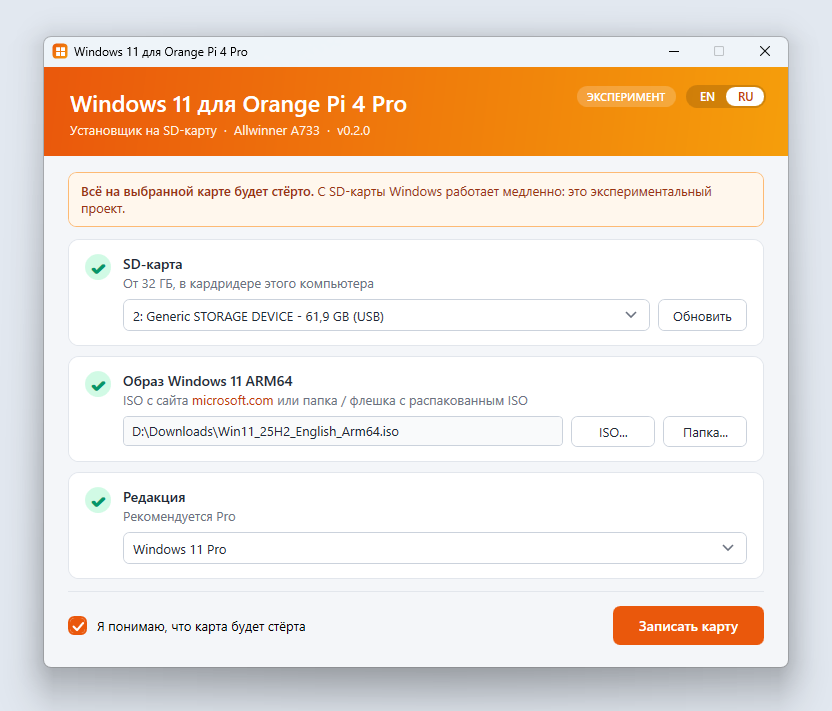
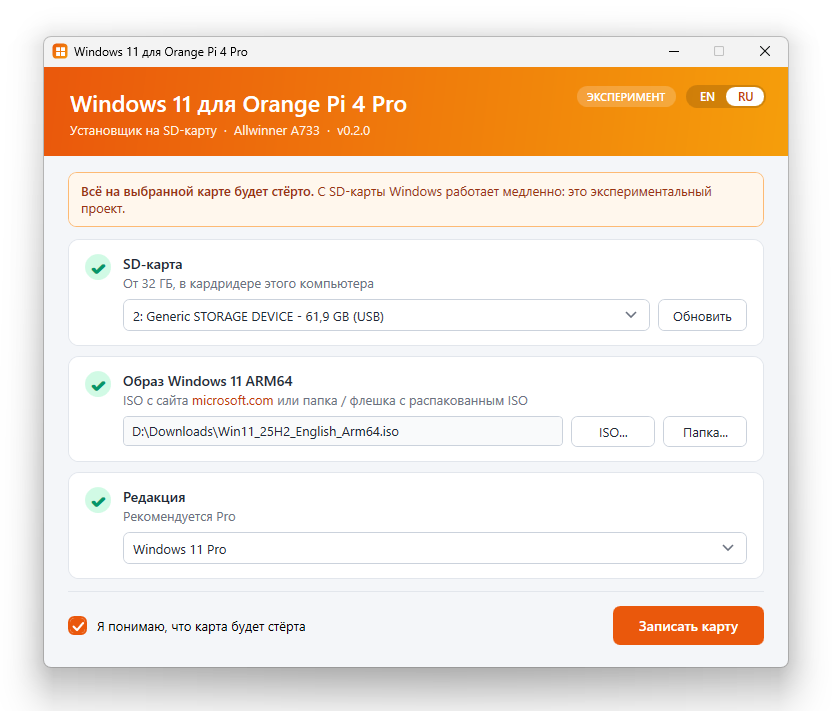
README screenshots with a transparent background (light and dark themes)
Captured on black and white and matted, so the rounded corners and the
shadow keep their transparency.

Changed region(s): [[0.0, 0.0, 1.0, 1.0]]

diff --git a/app/A733Installer/MainWindow.xaml.cs b/app/A733Installer/MainWindow.xaml.cs
@@ -389,25 +389,64 @@ namespace A733Installer
             var back = new Window
             {
                 WindowStyle = WindowStyle.None, ResizeMode = ResizeMode.NoResize, ShowInTaskbar = false, Topmost = true,
-                Background = Br("#E2E8F0"), Left = Left - pad, Top = Top - pad, Width = ActualWidth + 2 * pad, Height = ActualHeight + 2 * pad,
+                Background = Brushes.Black, Left = Left - pad, Top = Top - pad, Width = ActualWidth + 2 * pad, Height = ActualHeight + 2 * pad,
             };
             back.Show();
             Topmost = false; Topmost = true;
             Activate();
+            int x = (int)((Left - pad) * m.M11), y = (int)((Top - pad) * m.M22);
+            int w = (int)((ActualWidth + 2 * pad) * m.M11), h = (int)((ActualHeight + 2 * pad) * m.M22);
+
+            // Capture on black and on white: the difference gives each pixel's alpha, so the PNG
+            // is transparent around the window (rounded corners and shadow included) and fits any
+            // page background (GitHub light and dark themes).
+            var onBlack = Capture(x, y, w, h);
+            back.Background = Brushes.White;
+            var onWhite = Capture(x, y, w, h);
+            back.Close();
+            using (var bmp = Matte(onBlack, onWhite, w, h))
+                bmp.Save(path, System.Drawing.Imaging.ImageFormat.Png);
+            Close();
+        }
+
+        int[] Capture(int x, int y, int w, int h)
+        {
             for (int i = 0; i < 12; i++)
             {
                 Dispatcher.Invoke(DispatcherPriority.Background, new Action(() => { }));
                 Thread.Sleep(80);
             }
-            int x = (int)((Left - pad) * m.M11), y = (int)((Top - pad) * m.M22);
-            int w = (int)((ActualWidth + 2 * pad) * m.M11), h = (int)((ActualHeight + 2 * pad) * m.M22);
-            using (var bmp = new System.Drawing.Bitmap(w, h))
+            using (var bmp = new System.Drawing.Bitmap(w, h, System.Drawing.Imaging.PixelFormat.Format32bppArgb))
             {
                 using (var g = System.Drawing.Graphics.FromImage(bmp)) g.CopyFromScreen(x, y, 0, 0, new System.Drawing.Size(w, h));
-                bmp.Save(path, System.Drawing.Imaging.ImageFormat.Png);
+                var data = bmp.LockBits(new System.Drawing.Rectangle(0, 0, w, h), System.Drawing.Imaging.ImageLockMode.ReadOnly, bmp.PixelFormat);
+                var px = new int[w * h];
+                System.Runtime.InteropServices.Marshal.Copy(data.Scan0, px, 0, px.Length);
+                bmp.UnlockBits(data);
+                return px;
             }
-            back.Close();
-            Close();
+        }
+
+        static System.Drawing.Bitmap Matte(int[] black, int[] white, int w, int h)
+        {
+            var px = new int[w * h];
+            for (int i = 0; i < px.Length; i++)
+            {
+                int b = black[i], wh = white[i];
+                int br = (b >> 16) & 255, bg = (b >> 8) & 255, bb = b & 255;
+                int wr = (wh >> 16) & 255, wg = (wh >> 8) & 255, wb = wh & 255;
+                // white - black = 255 * (1 - alpha) per channel
+                int a = 255 - ((wr - br) + (wg - bg) + (wb - bb)) / 3;
+                if (a <= 0) { px[i] = 0; continue; }
+                if (a > 255) a = 255;
+                int r = Math.Min(255, br * 255 / a), g = Math.Min(255, bg * 255 / a), bl = Math.Min(255, bb * 255 / a);
+                px[i] = (a << 24) | (r << 16) | (g << 8) | bl;
+            }
+            var bmp = new System.Drawing.Bitmap(w, h, System.Drawing.Imaging.PixelFormat.Format32bppArgb);
+            var data = bmp.LockBits(new System.Drawing.Rectangle(0, 0, w, h), System.Drawing.Imaging.ImageLockMode.WriteOnly, bmp.PixelFormat);
+            System.Runtime.InteropServices.Marshal.Copy(px, 0, data.Scan0, px.Length);
+            bmp.UnlockBits(data);
+            return bmp;
         }
     }
 }
